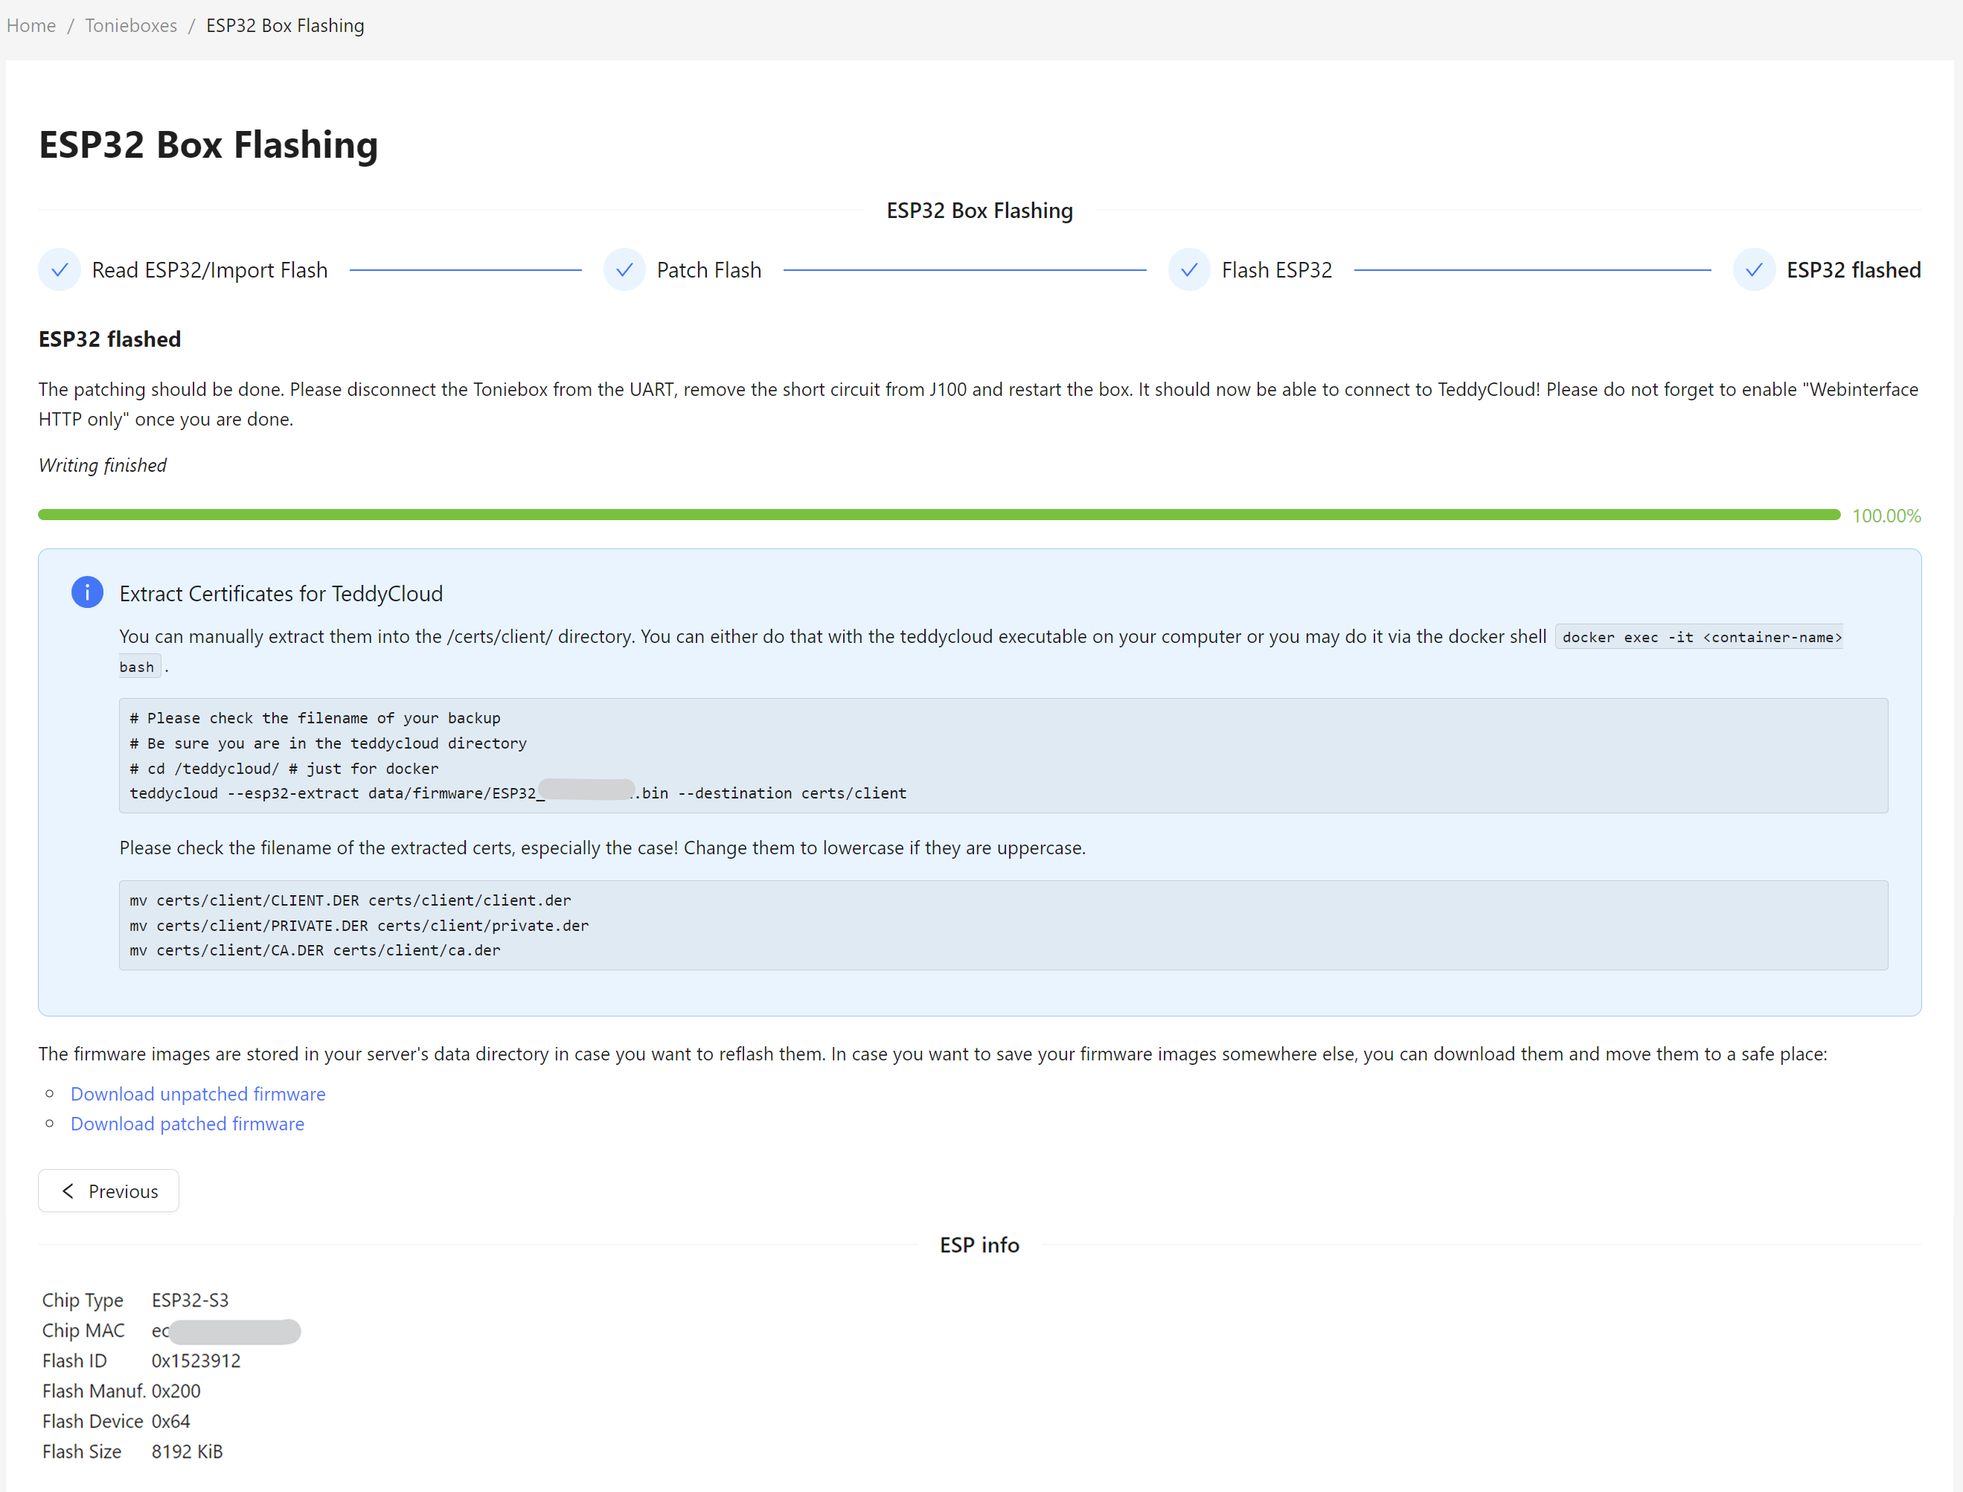
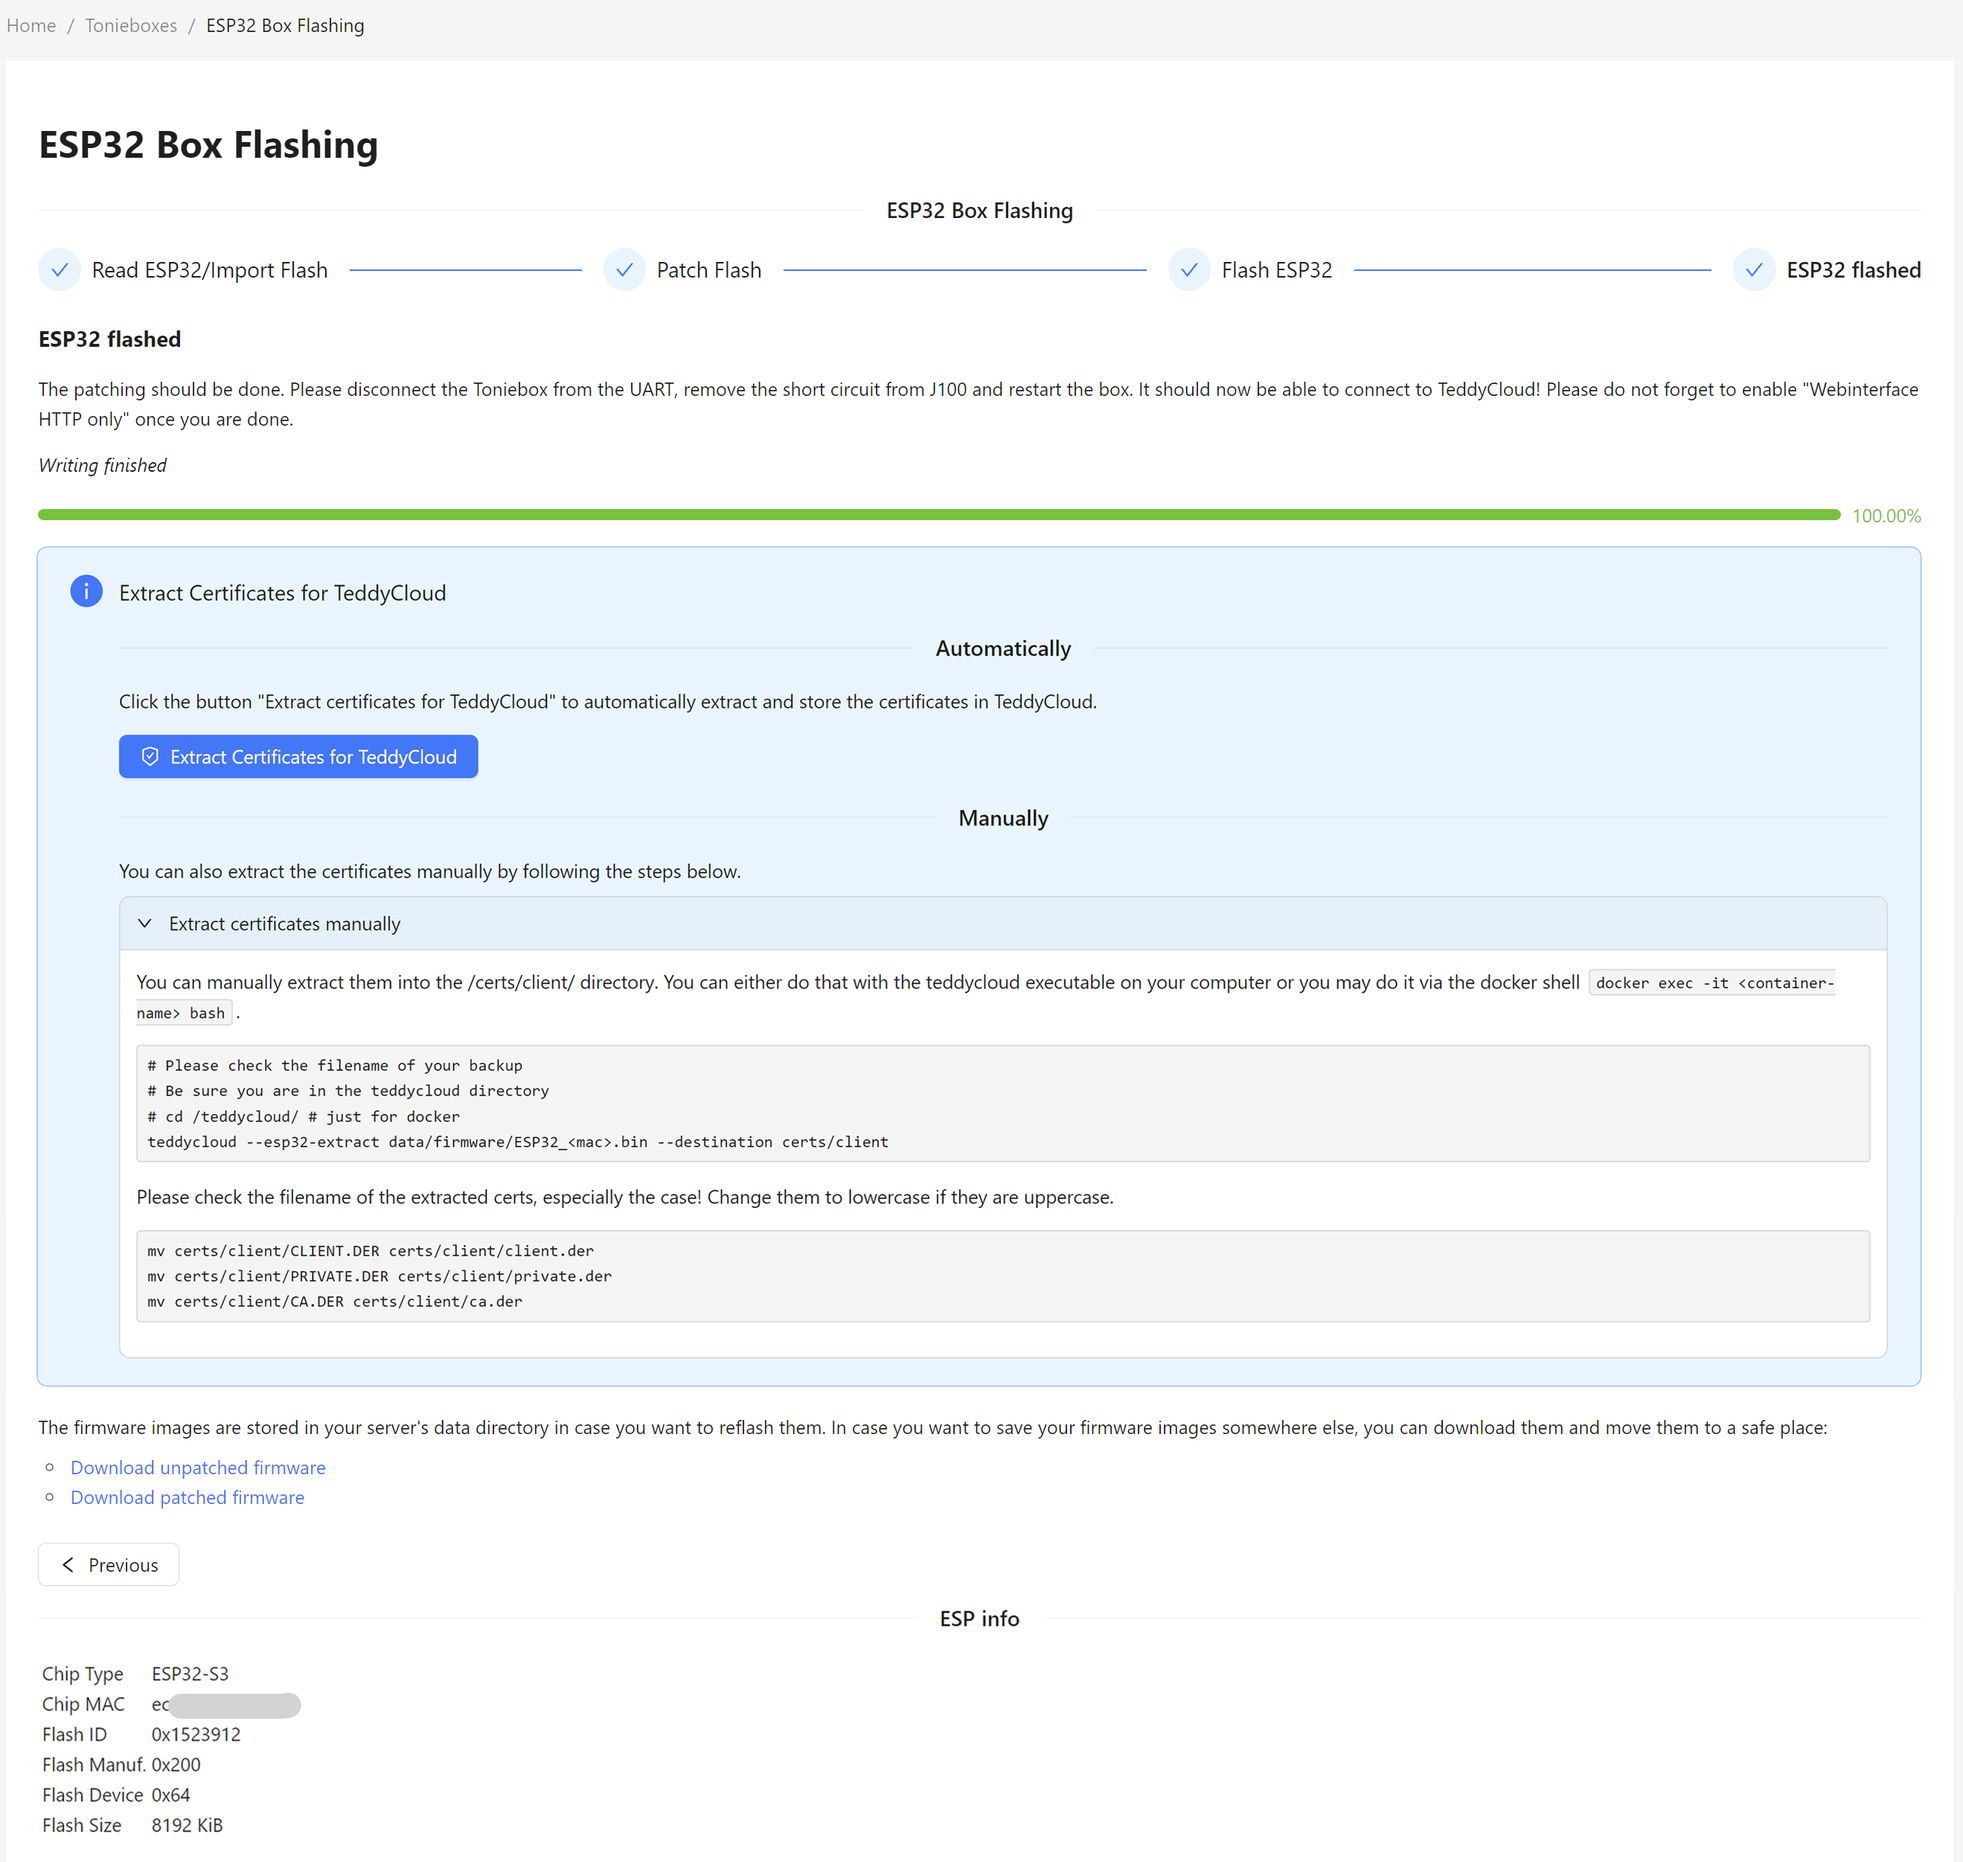
adapted to latest changes

diff --git a/content/docs/tools/teddyCloud/setup/dump-certs/esp32.md b/content/docs/tools/teddyCloud/setup/dump-certs/esp32.md
@@ -23,6 +23,9 @@ If the flash is read sucessfully, you can download the unpatched firmware.
 
 ![Flash successfully read](/img/esp32_gui_flashing_02_patchflash.png)
 
+
+_(Optionally as you can do it automatically at the end of the flashing process!)_
+
 After that you can manually extract the certificates into the ```/certs/client/``` directory. You can either do that with the teddycloud executable on your computer or you may do it via the docker shell `docker exec -it <container-name> bash`.
 ```
 # Please check the filename of your backup

diff --git a/content/docs/tools/teddyCloud/setup/flash-ca/esp32.md b/content/docs/tools/teddyCloud/setup/flash-ca/esp32.md
@@ -28,6 +28,7 @@ If the flashing was successful, you can download the unpatched and patched Firmw
 
 ![Flashing done](/img/esp32_gui_flashing_06_flashingdone.png)
 
+You can now also extract and place the certificates automatically.
 
 ## Legacy
 Replace the original CA within your flash dump with esptool.
